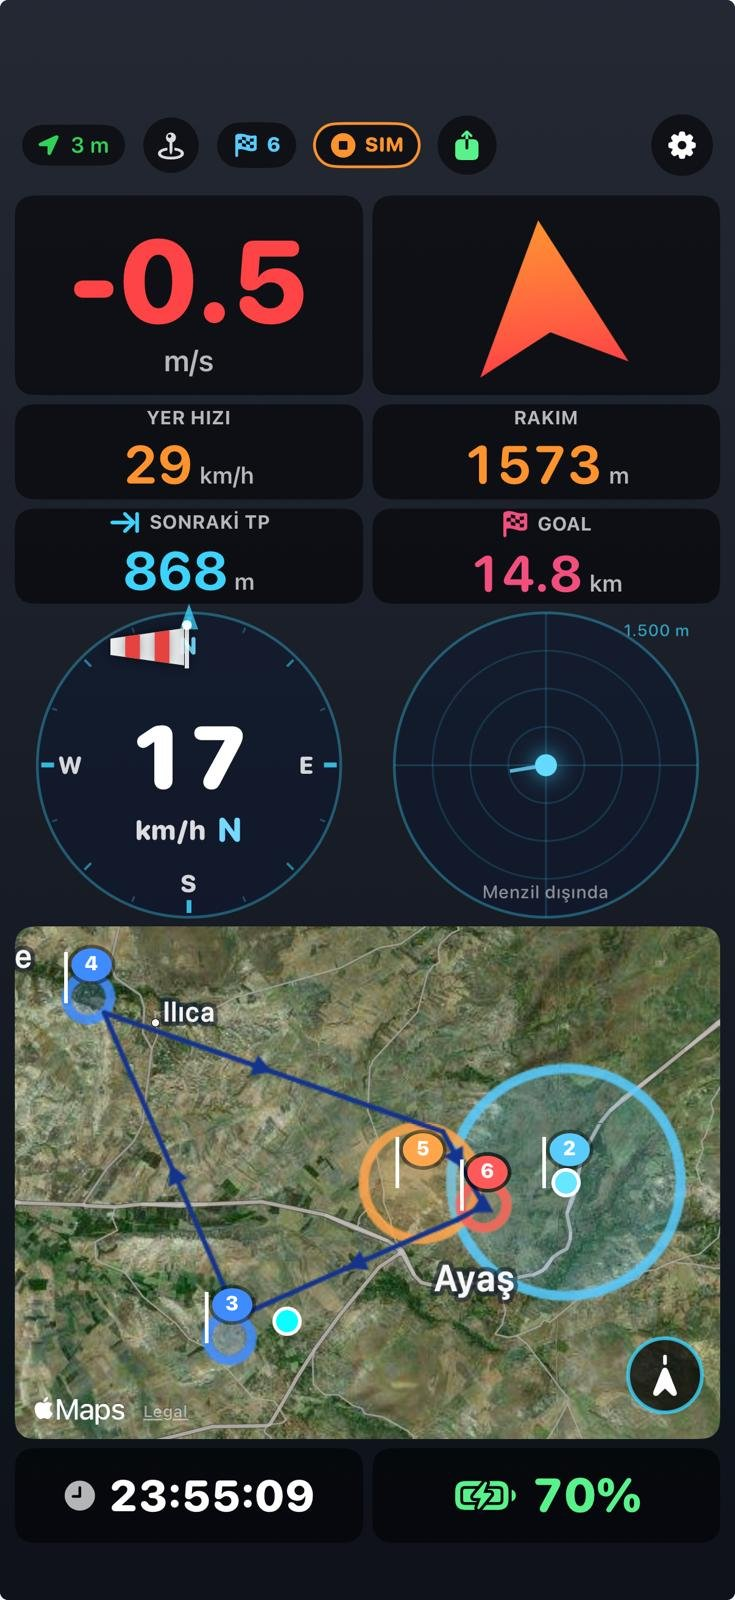
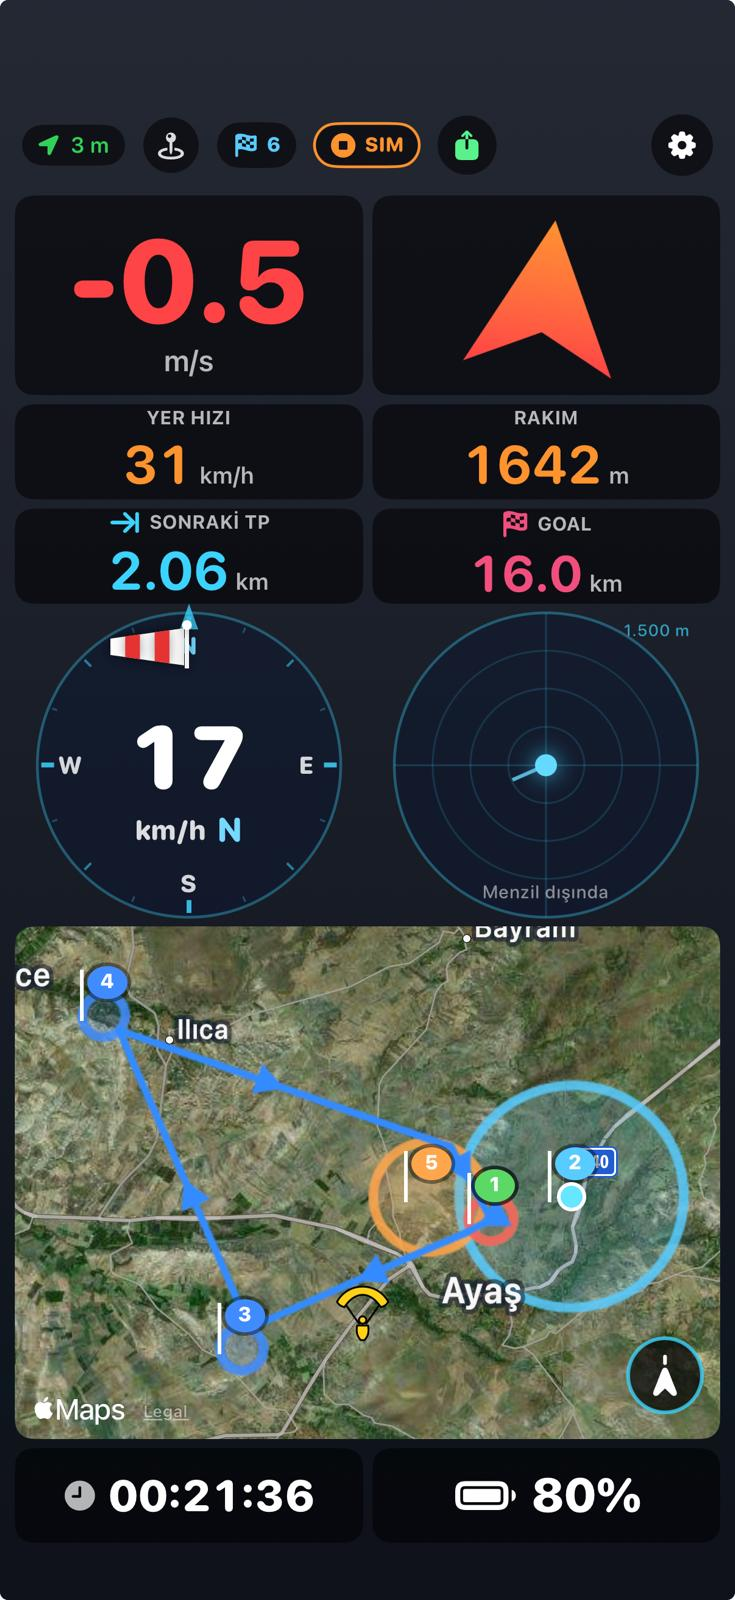
fix

diff --git a/VarioTB/Views/SatelliteMapView.swift b/VarioTB/Views/SatelliteMapView.swift
@@ -488,15 +488,76 @@ struct SatelliteMapView: UIViewRepresentable {
             return MKOverlayRenderer(overlay: overlay)
         }
 
+        /// Pilot marker drawn as a stylised paragliding silhouette —
+        /// curved wing on top with a pilot figure suspended beneath.
+        /// Uses bright yellow with a dark outline so it stays visible
+        /// against both green terrain and the blue task route lines.
+        /// Size 36×36 in points — slightly larger than the old dot so
+        /// the silhouette detail reads clearly on retina screens.
         static let pilotImage: UIImage = {
-            let size = CGSize(width: 22, height: 22)
+            let size = CGSize(width: 36, height: 36)
             return UIGraphicsImageRenderer(size: size).image { ctx in
                 let c = ctx.cgContext
-                c.setFillColor(UIColor.cyan.cgColor)
-                c.fillEllipse(in: CGRect(x: 4, y: 4, width: 14, height: 14))
-                c.setStrokeColor(UIColor.white.cgColor)
-                c.setLineWidth(2)
-                c.strokeEllipse(in: CGRect(x: 4, y: 4, width: 14, height: 14))
+                let fill = UIColor(red: 1.0, green: 0.82, blue: 0.08, alpha: 1.0)   // vivid yellow
+                let stroke = UIColor.black
+                c.setFillColor(fill.cgColor)
+                c.setStrokeColor(stroke.cgColor)
+                c.setLineJoin(.round)
+                c.setLineCap(.round)
+                c.setLineWidth(1.2)
+
+                // Wing — a broad arc like a rainbow cap across the top
+                // third of the icon. Drawn as a filled path between
+                // two arcs (outer curve + inner curve).
+                let wing = UIBezierPath()
+                wing.move(to: CGPoint(x: 4, y: 12))
+                wing.addCurve(to: CGPoint(x: 32, y: 12),
+                              controlPoint1: CGPoint(x: 10, y: 1),
+                              controlPoint2: CGPoint(x: 26, y: 1))
+                wing.addCurve(to: CGPoint(x: 28, y: 15),
+                              controlPoint1: CGPoint(x: 31, y: 14),
+                              controlPoint2: CGPoint(x: 29.5, y: 14.5))
+                wing.addCurve(to: CGPoint(x: 8, y: 15),
+                              controlPoint1: CGPoint(x: 22, y: 6),
+                              controlPoint2: CGPoint(x: 14, y: 6))
+                wing.addCurve(to: CGPoint(x: 4, y: 12),
+                              controlPoint1: CGPoint(x: 6.5, y: 14.5),
+                              controlPoint2: CGPoint(x: 5, y: 14))
+                wing.close()
+                wing.fill()
+                wing.stroke()
+
+                // Suspension lines — from the wing's underside to the
+                // pilot's shoulders.
+                c.setLineWidth(1.0)
+                c.setStrokeColor(stroke.cgColor)
+                c.move(to: CGPoint(x: 9, y: 14))
+                c.addLine(to: CGPoint(x: 16, y: 24))
+                c.move(to: CGPoint(x: 27, y: 14))
+                c.addLine(to: CGPoint(x: 20, y: 24))
+                c.strokePath()
+
+                // Pilot head — small filled circle.
+                c.setFillColor(fill.cgColor)
+                c.setStrokeColor(stroke.cgColor)
+                c.setLineWidth(1.0)
+                let head = CGRect(x: 16, y: 20, width: 4, height: 4)
+                c.fillEllipse(in: head)
+                c.strokeEllipse(in: head)
+
+                // Pilot body — a rounded triangle / capsule below the
+                // head, reads as a seated harness silhouette.
+                let body = UIBezierPath()
+                body.move(to: CGPoint(x: 15, y: 25))
+                body.addLine(to: CGPoint(x: 21, y: 25))
+                body.addQuadCurve(to: CGPoint(x: 19, y: 33),
+                                   controlPoint: CGPoint(x: 22, y: 30))
+                body.addLine(to: CGPoint(x: 17, y: 33))
+                body.addQuadCurve(to: CGPoint(x: 15, y: 25),
+                                   controlPoint: CGPoint(x: 14, y: 30))
+                body.close()
+                body.fill()
+                body.stroke()
             }
         }()
 
@@ -868,13 +929,14 @@ final class TaskLegRenderer: MKOverlayRenderer {
         let pTo = point(for: MKMapPoint(leg.to))
 
         // Line width scales with zoom so it stays readable when zoomed out.
-        // Thicker than before (was 1.5) so the route is clearly visible
-        // against the satellite map background.
-        let lineWidth = max(3.0 / zoomScale, 3.5)
+        // Bumped from 3.5 to 5.0 base so the optimum route reads clearly
+        // against both terrain and open sky in the satellite view.
+        let lineWidth = max(4.5 / zoomScale, 5.0)
 
-        // Dark navy blue — matches the Flyskyhy reference closely and
-        // stands out against both dark satellite terrain and snow/water.
-        let color = UIColor(red: 0.08, green: 0.20, blue: 0.55, alpha: 1.0).cgColor
+        // Lighter, more saturated blue than the old navy. Picks up well
+        // against green terrain and dark areas while still feeling
+        // "route-like" (compare: Google Maps route blue, Flyskyhy cyan).
+        let color = UIColor(red: 0.20, green: 0.55, blue: 1.00, alpha: 1.0).cgColor
 
         // Draw line: center-to-center
         context.setStrokeColor(color)

diff --git a/VarioTB/Audio/ChimePlayer.swift b/VarioTB/Audio/ChimePlayer.swift
@@ -1,0 +1,109 @@
+import Foundation
+import AVFoundation
+
+/// Plays a short "tag the turnpoint" chime when the pilot enters a
+/// cylinder. Deliberately independent of the main vario AudioEngine —
+/// it has its own short-lived AVAudioPlayer, generated in-memory from
+/// a small wavetable, so triggering a chime doesn't disturb the
+/// continuous vario tone playing alongside it.
+///
+/// The chime is a three-note ascending major arpeggio (C5-E5-G5) with
+/// a short decay on each note — pleasant, attention-grabbing, not
+/// annoying. Pilots hear it as a "ding-ding-ding" acknowledgement.
+final class ChimePlayer {
+    static let shared = ChimePlayer()
+
+    private var players: [AVAudioPlayer] = []
+    private let sampleRate: Double = 44100
+    private let queue = DispatchQueue(label: "chime.player")
+
+    /// Generate + play the reach chime. Safe to call from any thread.
+    /// Subsequent calls while one chime is still playing layer on top —
+    /// pilots tagging back-to-back TPs get overlapping chimes, which
+    /// sounds fine and confirms both reaches happened.
+    func playReachChime() {
+        queue.async { [weak self] in
+            self?.playSequence(frequencies: [523.25, 659.25, 783.99],  // C5, E5, G5
+                               noteDurationS: 0.12,
+                               noteGapS: 0.03)
+        }
+    }
+
+    /// Build a PCM buffer containing the requested note sequence and
+    /// kick off an AVAudioPlayer on it. The player instance is held
+    /// until playback finishes to keep ARC from freeing it mid-sound.
+    private func playSequence(frequencies: [Double],
+                              noteDurationS: Double,
+                              noteGapS: Double) {
+        let totalS = Double(frequencies.count) * (noteDurationS + noteGapS)
+        let sampleCount = Int(totalS * sampleRate)
+        var samples = [Int16](repeating: 0, count: sampleCount)
+
+        let noteSamples = Int(noteDurationS * sampleRate)
+        let gapSamples = Int(noteGapS * sampleRate)
+
+        for (idx, freq) in frequencies.enumerated() {
+            let start = idx * (noteSamples + gapSamples)
+            for i in 0..<noteSamples {
+                let t = Double(i) / sampleRate
+                // Simple exponential decay envelope, ~5x shorter than
+                // the note itself so each tick is distinct.
+                let env = exp(-6.0 * t / noteDurationS)
+                let sample = env * sin(2 * .pi * freq * t) * 0.35
+                let s16 = Int16(sample * Double(Int16.max))
+                samples[start + i] = s16
+            }
+        }
+
+        // Wrap Int16 samples in a minimal WAV header so AVAudioPlayer
+        // can parse them without any file I/O.
+        let data = makeWAV(samples: samples, sampleRate: Int(sampleRate))
+        guard let player = try? AVAudioPlayer(data: data) else { return }
+        player.volume = 0.8
+        player.prepareToPlay()
+        player.play()
+        // Keep the player alive for the duration. AVAudioPlayer stops
+        // automatically when the buffer runs out; we remove it from the
+        // retain list a bit after that.
+        DispatchQueue.main.async { [weak self] in
+            self?.players.append(player)
+            DispatchQueue.main.asyncAfter(deadline: .now() + totalS + 0.5) {
+                self?.players.removeAll { $0 === player }
+            }
+        }
+    }
+
+    /// Build a 16-bit mono PCM WAV file in memory. Minimal header,
+    /// enough for AVAudioPlayer to decode.
+    private func makeWAV(samples: [Int16], sampleRate: Int) -> Data {
+        var data = Data()
+        let byteCount = samples.count * 2
+        let fileSize = 36 + byteCount
+
+        func append<T>(_ v: T) {
+            var v = v
+            withUnsafeBytes(of: &v) { data.append(contentsOf: $0) }
+        }
+
+        // RIFF header
+        data.append("RIFF".data(using: .ascii)!)
+        append(UInt32(fileSize).littleEndian)
+        data.append("WAVE".data(using: .ascii)!)
+        // fmt chunk
+        data.append("fmt ".data(using: .ascii)!)
+        append(UInt32(16).littleEndian)            // chunk size
+        append(UInt16(1).littleEndian)             // PCM format
+        append(UInt16(1).littleEndian)             // mono
+        append(UInt32(sampleRate).littleEndian)
+        append(UInt32(sampleRate * 2).littleEndian) // byte rate
+        append(UInt16(2).littleEndian)             // block align
+        append(UInt16(16).littleEndian)            // bits per sample
+        // data chunk
+        data.append("data".data(using: .ascii)!)
+        append(UInt32(byteCount).littleEndian)
+        samples.withUnsafeBufferPointer { buf in
+            data.append(Data(buffer: buf))
+        }
+        return data
+    }
+}

diff --git a/VarioTB/Views/PanelView.swift b/VarioTB/Views/PanelView.swift
@@ -756,49 +756,66 @@ private struct CourseCard: View {
     let pilotCoord: CLLocationCoordinate2D?
     @ObservedObject var task: CompetitionTask
 
-    /// Arrow rotation relative to pilot's heading.
-    ///
-    /// - Task active AND a next TP exists:
-    ///     Points at the next turnpoint. 0° (up) = TP is directly
-    ///     ahead of where the pilot is flying; 90° (right) = TP is to
-    ///     the pilot's right; etc. Formula: bearing-to-TP − course.
-    ///
-    /// - Otherwise (no task, task complete, or no GPS fix yet):
-    ///     Points at true north, relative to pilot's heading. So the
-    ///     arrow rotates as the pilot turns — N stays pinned to the
-    ///     world, not to the card. Formula: −course.
+    /// Flash state: when a turnpoint is reached the card briefly tints
+    /// green and scales up slightly, then eases back. Triggered by
+    /// observing task.lastReachEvent.
+    @State private var isFlashing: Bool = false
+
     private var arrowRotation: Angle {
         if isTaskActive, let p = pilotCoord,
            let bearing = task.bearingToNextTurnpoint(from: p) {
             return .degrees(bearing - courseDeg)
         }
-        // Fallback: arrow points north regardless of what the pilot
-        // is doing. When the pilot flies north, course = 0° and the
-        // arrow sits straight up; when they head east, course = 90°
-        // and the arrow swings to the left (north is to their left).
         return .degrees(-courseDeg)
+    }
+
+    /// Gradient used to fill the arrow. Normally orange→red; during the
+    /// reach flash we swap to green→mint for ~0.7s so the colour change
+    /// is obvious even in peripheral vision.
+    private var arrowColors: [Color] {
+        isFlashing
+            ? [Color.green, Color(red: 0.4, green: 1.0, blue: 0.6)]
+            : [Color.orange, Color.red]
     }
 
     var body: some View {
         GeometryReader { geo in
-            // Single big arrow, no bearing text — the arrow's direction
-            // alone tells the pilot what they need to know.
             let arrowSize = min(geo.size.width, geo.size.height) * 0.75
 
             ZStack {
                 RoundedRectangle(cornerRadius: 10)
-                    .fill(Color.black.opacity(0.55))
+                    .fill(isFlashing
+                          ? Color.green.opacity(0.35)
+                          : Color.black.opacity(0.55))
+                    .animation(.easeInOut(duration: 0.25), value: isFlashing)
 
                 ArrowShape()
                     .fill(
                         LinearGradient(
-                            colors: [Color.orange, Color.red],
+                            colors: arrowColors,
                             startPoint: .top, endPoint: .bottom)
                     )
                     .frame(width: arrowSize, height: arrowSize)
+                    .scaleEffect(isFlashing ? 1.15 : 1.0)
                     .rotationEffect(arrowRotation)
                     .animation(.easeOut(duration: 0.25), value: arrowRotation)
+                    .animation(.spring(response: 0.3, dampingFraction: 0.55), value: isFlashing)
             }
+            .onChange(of: task.lastReachEvent) { _ in
+                // Fire the flash. We don't care which TP was reached —
+                // every reach triggers the same feedback.
+                flash()
+            }
+        }
+    }
+
+    /// Trigger a brief colour+scale flash. Re-entry safe: a new reach
+    /// during an ongoing flash re-runs the animation from its peak,
+    /// which reads as continuous reach-to-reach feedback.
+    private func flash() {
+        isFlashing = true
+        DispatchQueue.main.asyncAfter(deadline: .now() + 0.7) {
+            isFlashing = false
         }
     }
 }

diff --git a/VarioTB/Models/CompetitionTask.swift b/VarioTB/Models/CompetitionTask.swift
@@ -1,5 +1,6 @@
 import Foundation
 import CoreLocation
+import UIKit
 
 /// Type of turnpoint in a paragliding competition task.
 enum TurnpointType: String, Codable, CaseIterable, Identifiable {
@@ -141,6 +142,14 @@ final class CompetitionTask: ObservableObject, Codable {
     /// convention (pilots re-enter the pre-start zone at launch).
     @Published var reachedTPIds: Set<UUID> = []
 
+    /// Pumped every time a new turnpoint is reached. Views observe this
+    /// to trigger reach-feedback animations (colour flash, haptic, etc).
+    /// nil at startup; set to the TP's id inside updateProgress when a
+    /// new cylinder is entered. Cleared by subscribers after they've
+    /// reacted (or left set — re-reads are idempotent since the id
+    /// won't change until the next reach).
+    @Published var lastReachEvent: UUID? = nil
+
     /// GPS tolerance applied to cylinder entry checks. Real pilots don't
     /// get perfect fixes — 10-15m error is normal. We widen each cylinder
     /// by this much when deciding "pilot reached the TP" so a pilot who
@@ -163,6 +172,15 @@ final class CompetitionTask: ObservableObject, Codable {
             let d = Self.haversine(pilot, tp.coordinate)
             if d <= tp.radiusM + Self.gpsToleranceM {
                 reachedTPIds.insert(tp.id)
+                // Broadcast the reach event. Audible chime + haptic
+                // fire immediately; any visible flash in the UI (course
+                // card, map annotation, etc.) latches onto the
+                // published id via its own @Published observer.
+                lastReachEvent = tp.id
+                ChimePlayer.shared.playReachChime()
+                DispatchQueue.main.async {
+                    UINotificationFeedbackGenerator().notificationOccurred(.success)
+                }
                 continue
             }
             // Not in this cylinder yet — can't look past it.
